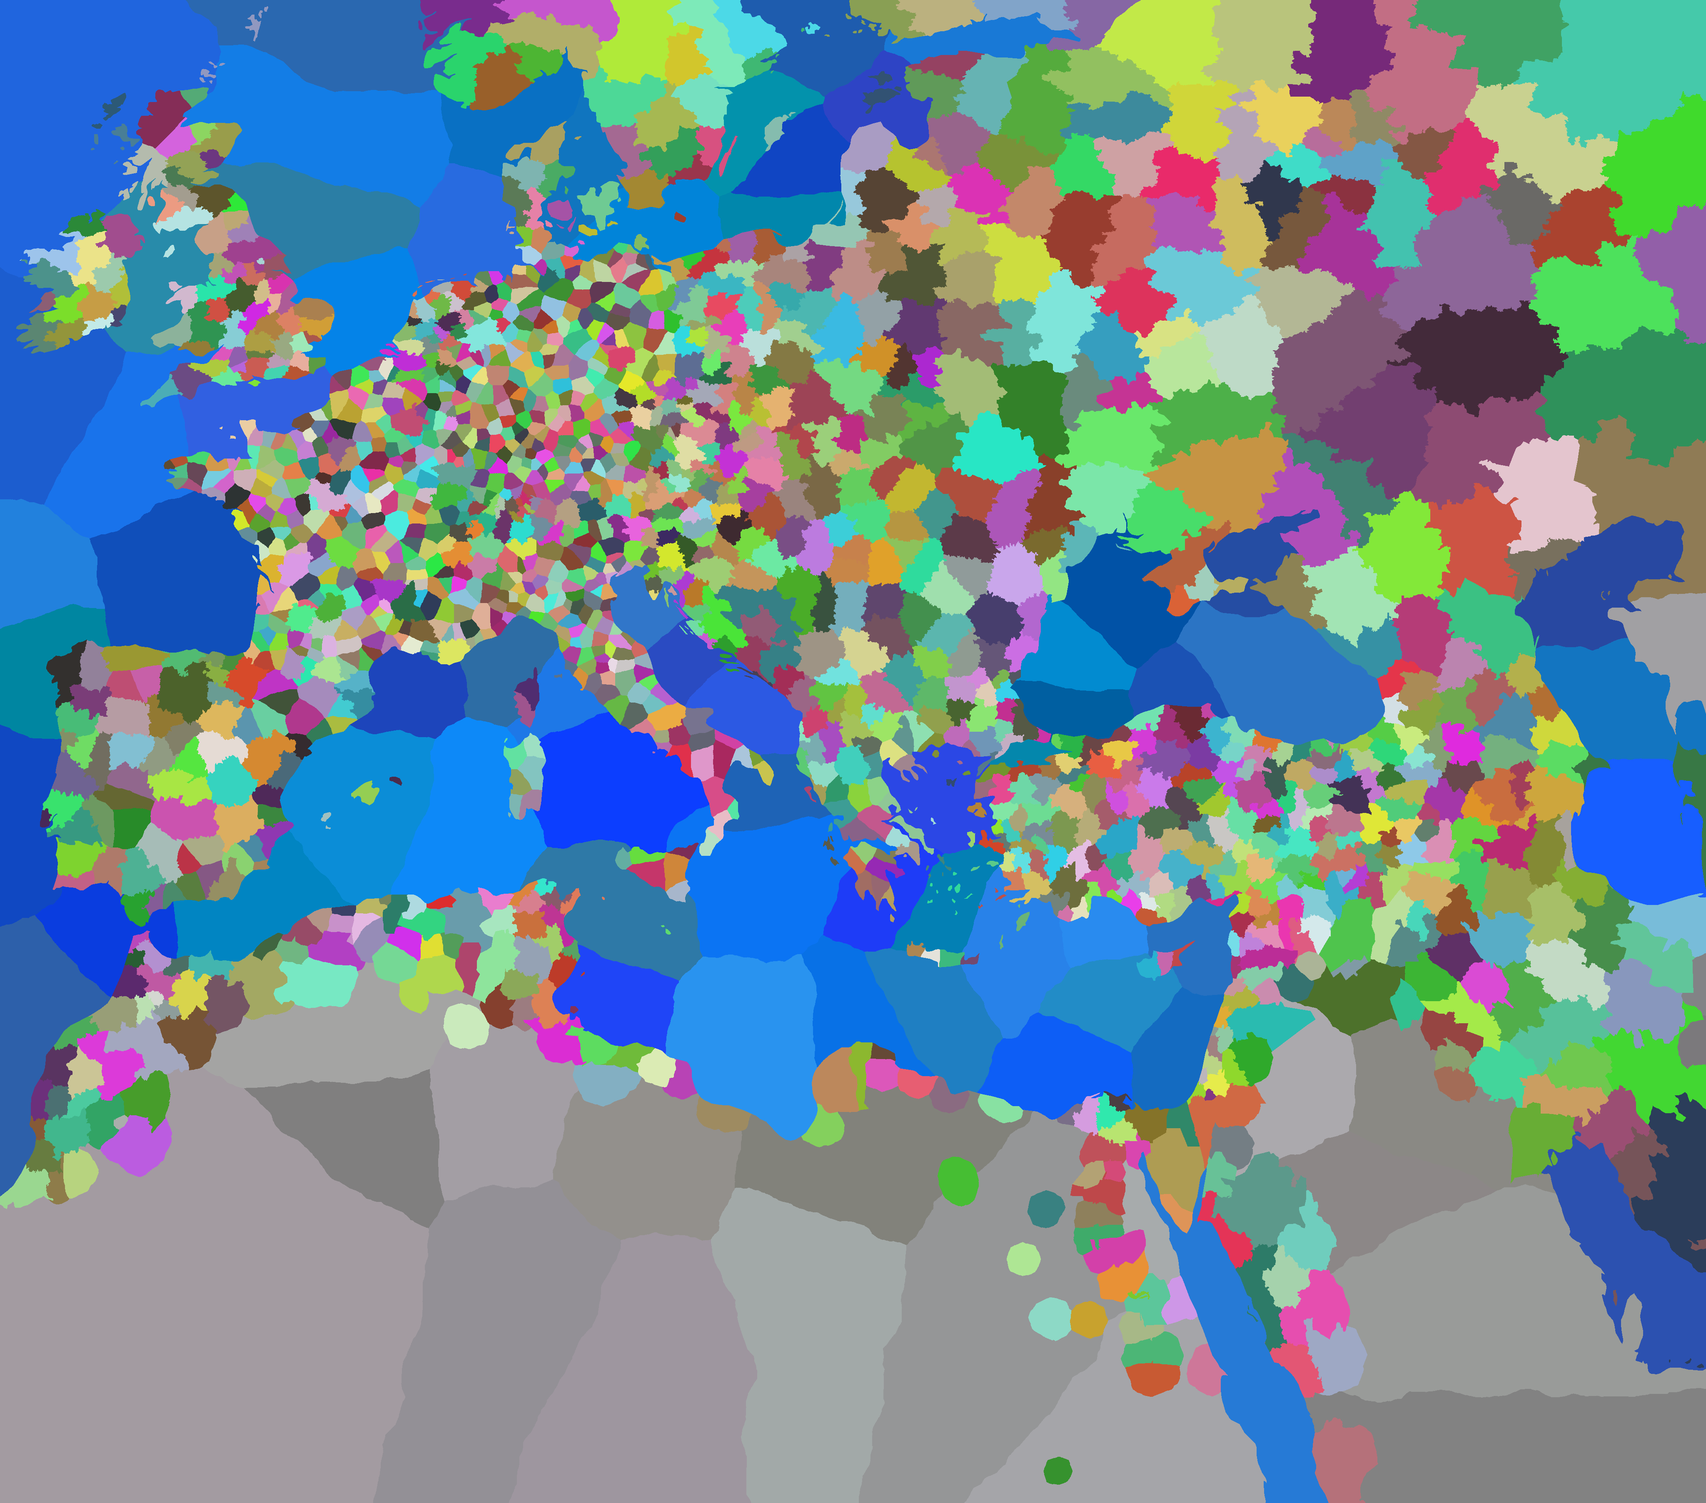
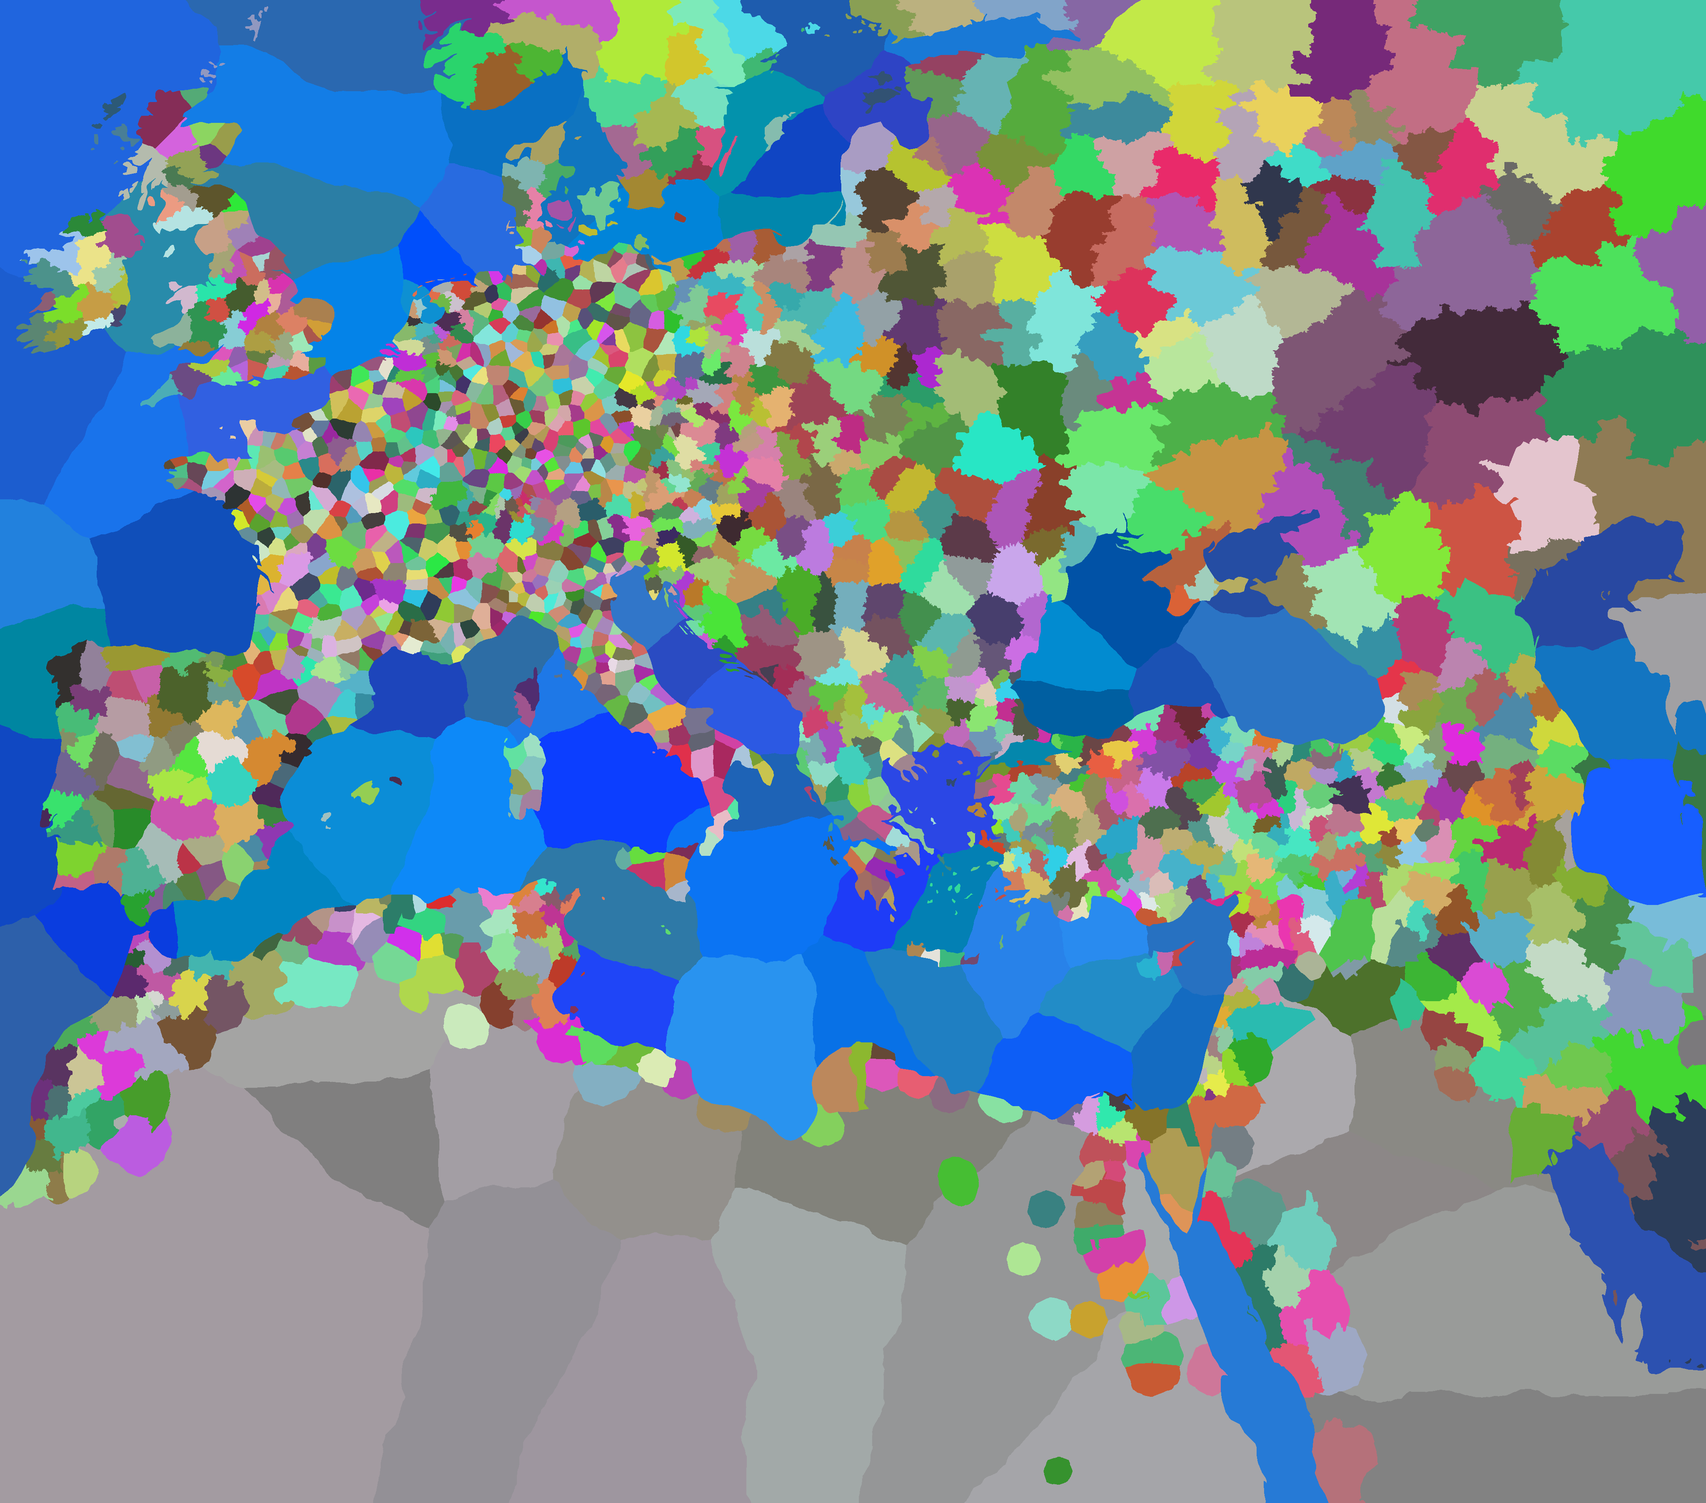
Provinces-only map, Zuiderzee as sea, no oversized district snapping
- Realms switched off (enabled: false in data/scenario/1302.yaml) while the
  province map is being built: the game shows provinces only and new
  provinces need no owner. The 1302 realm data is kept in the file.
- data/map/water.yaml carves historical water out of the modern coastline;
  the Zuiderzee and the Wadden Sea are now sea zones
- seed-map no longer snaps districts much larger than their province, which
  made Münster and other German provinces swallow whole Regierungsbezirke
- fetch-boundaries picks the finest usable district level per country

diff --git a/tools/fetch-boundaries.ts b/tools/fetch-boundaries.ts
@@ -1,19 +1,28 @@
 /**
- * Downloads simplified district boundaries (ADM2, or ADM1 where ADM2 is missing) from geoBoundaries gbOpen
- * for every country on the map into tools/vendor/geoboundaries/ (git-ignored), and records each file's
- * source and licence in data/map/boundary-sources.json for attribution.
+ * Downloads simplified district boundaries from geoBoundaries gbOpen for every country on the map into
+ * tools/vendor/geoboundaries/ (git-ignored), and records each file's source and licence in
+ * data/map/boundary-sources.json for attribution.
  *
- * Usage: npm run fetch-boundaries      (one-off; seed-map uses the files when present)
+ * For each country it picks the finest ADM level whose units average at least MIN_MEAN_KM2 and whose file
+ * is at most MAX_FILE_MB: fine districts let province borders follow real municipal and county lines.
+ *
+ * Usage: npm run fetch-boundaries [-- --dry-run]   (dry run prints the chosen levels and sizes only)
  */
-import { mkdirSync, writeFileSync } from 'node:fs';
+import { existsSync, mkdirSync, readFileSync, writeFileSync } from 'node:fs';
 
 /** ISO 3166-1 alpha-3 codes of countries that overlap the map area. */
 const COUNTRIES = `PRT ESP AND FRA MCO GBR IRL IMN GIB BEL NLD LUX DEU DNK NOR SWE FIN EST LVA LTU POL CZE SVK AUT CHE
 LIE ITA SMR MLT SVN HRV BIH SRB MNE XKX ALB MKD GRC BGR ROU MDA UKR BLR RUS HUN TUR CYP GEO ARM AZE IRN IRQ SYR
 LBN ISR PSE JOR SAU KWT EGY LBY TUN DZA MAR KAZ TKM SDN`.split(/\s+/);
+const LEVELS = ['ADM1', 'ADM2', 'ADM3', 'ADM4'];
+const MIN_MEAN_KM2 = 30;
+const MAX_FILE_MB = 20;
 const OUT_DIR = 'tools/vendor/geoboundaries';
+const SOURCES_FILE = 'data/map/boundary-sources.json';
+const dryRun = process.argv.includes('--dry-run');
 
 interface Source { iso: string; level: string; units: number; license: string; source: string; url: string }
+interface Candidate { level: string; meta: Record<string, string>; bytes: number }
 
 async function meta(iso: string, level: string): Promise<Record<string, string> | null> {
   const r = await fetch(`https://www.geoboundaries.org/api/current/gbOpen/${iso}/${level}/`);
@@ -25,27 +34,56 @@ async function meta(iso: string, level: string): Promise<Record<string, string> 
   }
 }
 
+async function size(url: string): Promise<number> {
+  const r = await fetch(url, { method: 'HEAD', redirect: 'follow' });
+  return Number(r.headers.get('content-length') ?? 0);
+}
+
+/** Finest level that is neither municipal-scale tiny nor too large to download, but never coarser than ADM2. */
+function choose(cands: Candidate[]): Candidate | null {
+  const ok = cands.filter((c) => Number(c.meta.meanAreaSqKM) >= MIN_MEAN_KM2 && c.bytes <= MAX_FILE_MB * 1e6);
+  const finest = ok.at(-1);
+  const adm2 = cands.find((c) => c.level === 'ADM2');
+  if (adm2 && (!finest || LEVELS.indexOf(finest.level) < LEVELS.indexOf('ADM2'))) return adm2;
+  return finest ?? cands[0] ?? null;
+}
+
+const previous: Source[] = existsSync(SOURCES_FILE) ? JSON.parse(readFileSync(SOURCES_FILE, 'utf8')) : [];
 mkdirSync(OUT_DIR, { recursive: true });
 const sources: Source[] = [];
+let newBytes = 0;
 for (const iso of COUNTRIES) {
-  let level = 'ADM2';
-  let m = await meta(iso, level);
-  if (!m) {
-    level = 'ADM1';
-    m = await meta(iso, level);
+  const cands: Candidate[] = [];
+  for (const level of LEVELS) {
+    const m = await meta(iso, level);
+    if (m) cands.push({ level, meta: m, bytes: await size(m.simplifiedGeometryGeoJSON!) });
   }
-  if (!m) {
+  const pick = choose(cands);
+  if (!pick) {
     console.warn(`${iso}: no geoBoundaries data, the generator falls back to seed growth there`);
     continue;
   }
+  const m = pick.meta;
   const url = m.simplifiedGeometryGeoJSON!;
+  const src: Source = { iso, level: pick.level, units: Number(m.admUnitCount), license: m.boundaryLicense!, source: m.boundarySource!, url };
+  sources.push(src);
+  const have = previous.find((p) => p.iso === iso && p.url === url) && existsSync(`${OUT_DIR}/${iso}.geojson`);
+  const note = `${iso} ${pick.level} ${m.admUnitCount} units, mean ${Math.round(Number(m.meanAreaSqKM))} km², ${(pick.bytes / 1e6).toFixed(1)} MB`;
+  if (have) {
+    console.log(`${note}  (already downloaded)`);
+    continue;
+  }
+  newBytes += pick.bytes;
+  if (dryRun) {
+    console.log(`${note}  -> would download`);
+    continue;
+  }
   const res = await fetch(url);
   if (!res.ok) throw new Error(`${iso}: download failed (${res.status}) ${url}`);
   const text = await res.text();
   JSON.parse(text); // fail early on anything that is not JSON
   writeFileSync(`${OUT_DIR}/${iso}.geojson`, text);
-  sources.push({ iso, level, units: Number(m.admUnitCount), license: m.boundaryLicense!, source: m.boundarySource!, url });
-  console.log(`${iso} ${level} ${(text.length / 1e6).toFixed(1)} MB  ${m.boundaryLicense}`);
+  console.log(`${note}  downloaded`);
 }
-writeFileSync('data/map/boundary-sources.json', JSON.stringify(sources, null, 2) + '\n');
-console.log(`Saved ${sources.length} countries to ${OUT_DIR} and data/map/boundary-sources.json`);
+console.log(`${dryRun ? 'Would download' : 'Downloaded'} ${(newBytes / 1e6).toFixed(1)} MB`);
+if (!dryRun) writeFileSync(SOURCES_FILE, JSON.stringify(sources, null, 2) + '\n');

diff --git a/tools/seed-map.ts b/tools/seed-map.ts
@@ -69,6 +69,13 @@ for (const { geometry } of geo.features) {
   if (geometry.type === 'Polygon') fillPolygon(geometry.coordinates, land, 1);
   else for (const poly of geometry.coordinates) fillPolygon(poly, land, 1);
 }
+// Historical water (data/map/water.yaml), e.g. the Zuiderzee before its modern land reclamation.
+const water = (parse(readFileSync('data/map/water.yaml', 'utf8')) ?? []) as { name: string; polygon: [number, number][] }[];
+for (const { polygon } of water) {
+  const ring: Ring = polygon.map(([lat, lon]) => [lon, lat]);
+  ring.push(ring[0]!);
+  fillPolygon([ring], land, 0);
+}
 
 // --- 2. Seeds ---------------------------------------------------------------------------------
 interface Def { id: number; key: string; name: string; kind: ProvinceKind }
@@ -252,9 +259,12 @@ for (let start = 0; start < W * H; start++) {
 // --- 4b. Snap provinces to real district borders (geoBoundaries, see data/map/ATTRIBUTION.md) -----
 // A district holding one seed joins that seed's province; a district without seeds joins whichever
 // province already covers most of it. Districts with several seeds keep the grown borders inside them,
-// and mostly-desert districts are left alone so desert-edge provinces keep their radius-limited shape.
+// mostly-desert districts are left alone so desert-edge provinces keep their radius-limited shape, and so are
+// districts much larger than the province they would join (coarse units such as German Regierungsbezirke).
 const BOUNDARY_DIR = 'tools/vendor/geoboundaries';
 const MAX_WASTE_SHARE = 0.4;
+/** A district may be at most this many times the grown size of the province it would join. */
+const MAX_DISTRICT_RATIO = 1.5;
 let snappedDistricts = 0;
 if (existsSync(BOUNDARY_DIR)) {
   const district = new Int32Array(W * H);
@@ -284,6 +294,8 @@ if (existsSync(BOUNDARY_DIR)) {
     const c = counts[d]!;
     c.set(owner[p]!, (c.get(owner[p]!) ?? 0) + 1);
   }
+  const grown = new Uint32Array(defs.length + 1);
+  for (let p = 0; p < W * H; p++) if (owner[p]! > 0) grown[owner[p]!]!++;
   const target = new Int32Array(districtCount + 1);
   for (let d = 1; d <= districtCount; d++) {
     const here = seedsIn.get(d);
@@ -298,7 +310,7 @@ if (existsSync(BOUNDARY_DIR)) {
       if (n > bestN) { best = o; bestN = n; }
     }
     const t = here ? [...here][0]! : best;
-    if (!t || slow[t] || waste > total * MAX_WASTE_SHARE) continue;
+    if (!t || slow[t] || waste > total * MAX_WASTE_SHARE || total > grown[t]! * MAX_DISTRICT_RATIO) continue;
     target[d] = t;
     snappedDistricts++;
   }

diff --git a/src/ui/App.tsx b/src/ui/App.tsx
@@ -1,4 +1,4 @@
-import { effect, signal } from '@preact/signals';
+import { computed, effect, signal } from '@preact/signals';
 import { useEffect, useRef } from 'preact/hooks';
 import { command, startGame, world } from '../bridge/client';
 import type { MapData } from '../content/map';
@@ -13,6 +13,8 @@ import { TopBar } from './TopBar';
 
 export const mapData = signal<MapData | null>(null);
 export const mapMode = signal<MapMode>('political');
+/** False while the scenario's realms are switched off (provinces-only map). */
+export const hasRealms = computed(() => (world.value?.realms.length ?? 0) > 1);
 export const hovered = signal<{ id: number; x: number; y: number }>({ id: 0, x: 0, y: 0 });
 /** At most one of these is non-zero: the panel shows either a province or a realm. */
 export const selected = signal(0);
@@ -53,7 +55,7 @@ export function showToast(text: string) {
 effect(() => {
   const map = mapData.value;
   const w = world.value;
-  const mode = mapMode.value;
+  const mode = hasRealms.value ? mapMode.value : 'terrain';
   if (map && view) view.setLookup(buildLookup(map, mode, w));
 });
 

diff --git a/src/ui/ProvincePanel.tsx b/src/ui/ProvincePanel.tsx
@@ -1,5 +1,5 @@
 import { world } from '../bridge/client';
-import { mapData, selected, selectProvince } from './App';
+import { hasRealms, mapData, selected, selectProvince } from './App';
 import { RealmLink } from './RealmPanel';
 
 const KIND_LABEL = { land: 'Land province', sea: 'Sea zone', wasteland: 'Wasteland (impassable)', lake: 'Lake' };
@@ -28,7 +28,7 @@ export function ProvincePanel() {
         {p.coastal ? ' · coastal' : ''} · #{p.id}
       </p>
       <dl>
-        {p.kind === 'land' && (
+        {p.kind === 'land' && hasRealms.value && (
           <>
             <dt>Owner</dt>
             <dd>{owner ? <RealmLink id={owner} /> : <span class="muted">Unclaimed</span>}</dd>

diff --git a/tools/build-data.ts b/tools/build-data.ts
@@ -12,6 +12,14 @@ if (!parsed.success) {
   process.exit(1);
 }
 
+if (!parsed.data.enabled) {
+  // Provinces-only mode: no realms, every province unowned. The realm data stays in the YAML untouched.
+  const empty = new Array<number>(Math.max(...map.provinces.map((p) => p.id)) + 1).fill(0);
+  writeFileSync('public/generated/scenario.json', JSON.stringify({ realms: [], owner: empty, controller: empty }));
+  console.log('build-data: realms disabled (enabled: false), provinces-only map');
+  process.exit(0);
+}
+
 const { scenario, errors, warnings } = compileScenario(parsed.data, map.provinces);
 for (const w of warnings) console.warn(`warning: ${w}`);
 if (errors.length) {

diff --git a/src/ui/MapModeBar.tsx b/src/ui/MapModeBar.tsx
@@ -1,5 +1,5 @@
 import type { MapMode } from '../render/map-modes';
-import { mapMode } from './App';
+import { hasRealms, mapMode } from './App';
 
 const MODES: { mode: MapMode; label: string; key: string }[] = [
   { mode: 'political', label: 'Political', key: 'q' },
@@ -7,6 +7,7 @@ const MODES: { mode: MapMode; label: string; key: string }[] = [
 ];
 
 export function MapModeBar() {
+  if (!hasRealms.value) return null; // provinces-only map: there is nothing political to show
   return (
     <nav class="mapmodes panel" aria-label="Map mode">
       {MODES.map((m) => (

diff --git a/src/content/scenario.ts b/src/content/scenario.ts
@@ -23,6 +23,8 @@ const realmSourceSchema = z.object({
 
 /** Shape of data/scenario/*.yaml. */
 export const scenarioSourceSchema = z.object({
+  /** false = provinces-only map while the map is under construction; realms are kept but not loaded. */
+  enabled: z.boolean().default(true),
   unclaimed: z.array(key).default([]),
   occupations: z.record(key, key).default({}),
   realms: z.array(realmSourceSchema).min(1),

diff --git a/docs/DESIGN.md b/docs/DESIGN.md
@@ -17,7 +17,7 @@ Decisions so far: **EU-style colour bitmap map**, **PixiJS v8 (WebGL)** renderer
 7. **Readable depth, data-driven.** Every number has a breakdown; all content lives in YAML.
 
 ## 2. v1 scope
-- Map: Iberia to the Caspian edge, Scotland/Baltic down to Aswan and Mecca (map edge 20.5°N). Starter map: ~1,650 provinces (1,567 land, 63 sea zones, 21 wastelands) and 114 realms including vassals and tributaries, with 1302 borders checked against the Euratlas map of 1300. The province budget was raised to ~1,000 in M2; prune seeds in `data/map/seeds.yaml` or merge realms in `data/scenario/1302.yaml` if it proves too much. Ilkhanate and Golden Horde are scripted neighbours (data-driven timelines of tribute demands and invasions, simplified armies).
+- Map: Iberia to the Caspian edge, Scotland/Baltic down to Aswan and Mecca (map edge 20.5°N). Starter map: ~1,650 provinces (1,567 land, 65 sea zones, 21 wastelands) and 114 realms including vassals and tributaries, with 1302 borders checked against the Euratlas map of 1300. The province budget was raised to ~1,000 in M2; prune seeds in `data/map/seeds.yaml` or merge realms in `data/scenario/1302.yaml` if it proves too much. Ilkhanate and Golden Horde are scripted neighbours (data-driven timelines of tribute demands and invasions, simplified armies).
 - Start 27 July 1302 on the **Julian calendar** (historically correct: leap year every 4 years, so 1304 has 29 February). Daily tick, pause, 5 speeds.
 - Singleplayer, browser (Vercel static site); later a Tauri desktop build.
 
@@ -70,12 +70,13 @@ With a colour bitmap of 4096×3342 px (~13.7M pixels), Canvas 2D would recolour 
 ### 4.6 Map pipeline (colour bitmap)
 - `data/map/provinces.png`: RGB, one colour per province, no anti-aliasing.
 - `data/map/definitions.yaml`: `color → id, key, name, kind (land | sea | wasteland | lake)`.
+- `data/map/water.yaml`: historical water carved out of the modern coastline (the Zuiderzee before its reclamation).
 - `data/map/straits.yaml`: extra adjacencies: straits and the caravan routes linking the Egyptian oases.
-- `data/scenario/1302.yaml`: realms (rank, government, colour, capital, overlord, scripted flag) with the provinces each owns, start-date occupations and explicitly unclaimed land. `tools/build-data` validates it against the built map (every land province owned exactly once or listed as unclaimed, capitals inside the realm, no loops of overlords, no water owned, warnings for look-alike neighbour colours) and writes `public/generated/scenario.json`.
+- `data/scenario/1302.yaml`: `enabled: false` switches the realms off while the province map is under construction (provinces-only view, no owners required); the realm data stays in the file. Realms (rank, government, colour, capital, overlord, scripted flag) with the provinces each owns, start-date occupations and explicitly unclaimed land. `tools/build-data` validates it against the built map (every land province owned exactly once or listed as unclaimed, capitals inside the realm, no loops of overlords, no water owned, warnings for look-alike neighbour colours) and writes `public/generated/scenario.json`.
 - `data/map/projection.yaml`: equirectangular, standard parallel 45°N, bounds; converts city lat/lon to pixels.
 - `tools/build-map` (runs in `npm run build`, also on Vercel): checks every pixel colour is defined, warns on non-contiguous and tiny provinces; computes pixel count, bbox, centroid, coastal flag, adjacency with shared border length; writes `public/generated/province-ids.png` (ID in R+G, 16-bit) and `public/generated/map.json`.
 - `tools/seed-map` (one-off starter): rasterises a public-domain coastline (Natural Earth 1:50m land) and grows land and sea provinces from seed points in `data/map/seeds.yaml` (historical towns, lat/lon) with a noise-weighted multi-source growth (Dial's algorithm), so provinces stay contiguous, never jump water and get irregular borders. A seed may carry a radius in km: desert-edge provinces (Maghreb, Nile valley, Syrian and Arabian fringe) stop there and the open desert is filled by wasteland seeds, keeping those provinces coastal or riverine; wasteland grows at half speed so settled provinces always fill their radius. North Africa, Egypt, Sinai and the Hejaz follow a CK3-style county layout: Morocco down to Ifni (no Sijilmasa/Ziz), Algeria to Bou Saâda, Tunisia to the Souf and Qashtiliya, coastal Libya, the Nile to Aswan plus the western oases to Selima, Sinai as land, and the Hejaz down to Mecca. The output is a **starter** bitmap to repaint by hand (GIMP/Aseprite pencil tool, anti-aliasing off, no colour profile).
-- District snapping: `tools/fetch-boundaries` (one-off) downloads simplified ADM2 district boundaries from geoBoundaries for every country on the map into `tools/vendor/` (git-ignored). `seed-map` then snaps provinces to them: a district holding one seed joins that seed's province, a seedless district joins the province already covering most of it, districts with several seeds keep the grown borders, and mostly-desert districts are skipped so desert-edge provinces stay small. Stranded fragments are merged into the neighbour they border most. Borders therefore follow real rivers, ridges and valleys.
+- District snapping: `tools/fetch-boundaries` (one-off) downloads simplified ADM2 district boundaries from geoBoundaries for every country on the map into `tools/vendor/` (git-ignored). `seed-map` then snaps provinces to them: a district holding one seed joins that seed's province, a seedless district joins the province already covering most of it, districts with several seeds keep the grown borders, mostly-desert districts are skipped so desert-edge provinces stay small, and districts more than 1.5x the size of the province they would join are skipped (coarse units such as German Regierungsbezirke). The fetch tool picks the finest district level per country with units of at least 30 km² and files of at most 20 MB, never coarser than ADM2. Stranded fragments are merged into the neighbour they border most. Borders therefore follow real rivers, ridges and valleys.
 - Licence: because several district sources are ODbL or share-alike, the map data in `data/map/` is published under ODbL; sources are credited in `data/map/ATTRIBUTION.md` and in-game. Game code is not affected.
 - Picking: the decoded ID map is kept as a `Uint16Array` on the main thread; hover/click is one array read.
 
